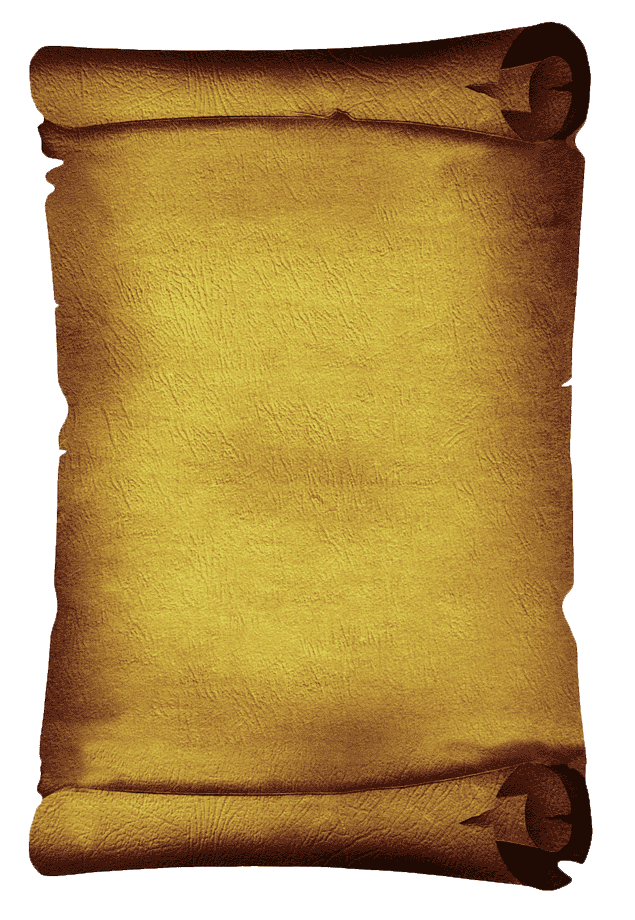
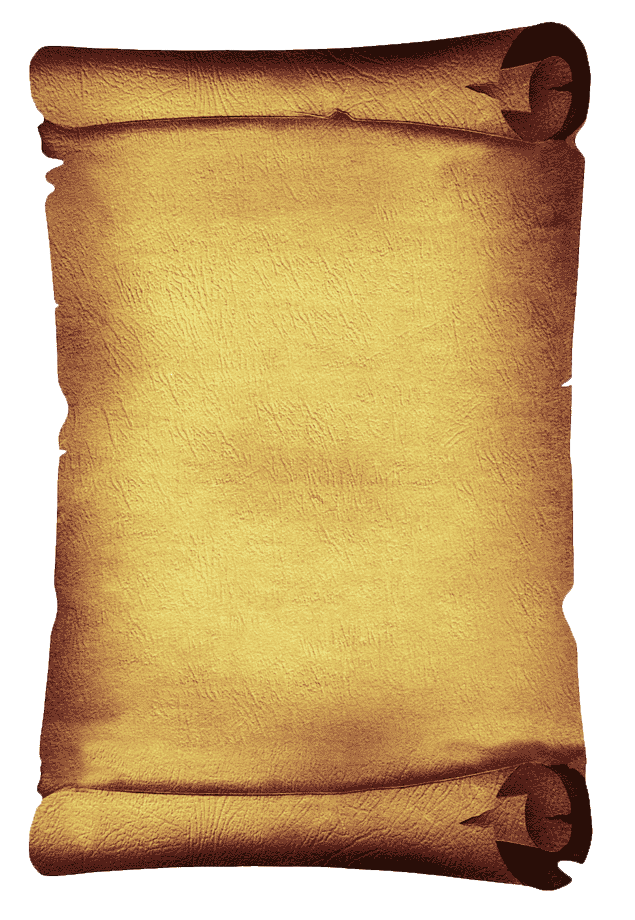
Actualizo menu. Cambio titulo y pergamino.

diff --git a/Warhammer/src/Menu.java b/Warhammer/src/Menu.java
@@ -86,11 +86,11 @@ public class Menu extends JFrame {
 		// IMAGEN DE TITULO
 
 		JLabel lblNewLabel = new JLabel("");
-		lblNewLabel.setBounds(615, 75, 643, 196);
+		lblNewLabel.setBounds(685, 191, 516, 150);
 		contentPane.add(lblNewLabel);
 
 		Image img = new ImageIcon(".\\images\\titulo.png").getImage();
-		ImageIcon img2 = new ImageIcon(img.getScaledInstance(630, 190, Image.SCALE_SMOOTH));
+		ImageIcon img2 = new ImageIcon(img.getScaledInstance(490, 182, Image.SCALE_SMOOTH));
 		lblNewLabel.setIcon(img2);
 
 		Image imgsalir = new ImageIcon(".\\images\\boton-salir.png").getImage();
@@ -100,18 +100,18 @@ public class Menu extends JFrame {
 
 		JLabel btn1 = new JLabel("");
 		btn1.setHorizontalAlignment(SwingConstants.CENTER);
-		btn1.setBounds(760, 495, 332, 64);
+		btn1.setBounds(769, 498, 332, 64);
 		contentPane.add(btn1);
 
 		JLabel btn2 = new JLabel("");
 		btn2.setHorizontalAlignment(SwingConstants.CENTER);
-		btn2.setBounds(760, 605, 332, 64);
+		btn2.setBounds(769, 608, 332, 64);
 		contentPane.add(btn2);
 
 		JLabel btn3 = new JLabel("");
 		btn3.setForeground(Color.BLACK);
 		btn3.setHorizontalAlignment(SwingConstants.CENTER);
-		btn3.setBounds(760, 384, 332, 64);
+		btn3.setBounds(769, 387, 332, 64);
 		contentPane.add(btn3);
 
 		// ASIGNAMOS IMAGEN A LOS BOTONES
@@ -177,10 +177,10 @@ public class Menu extends JFrame {
 		lblsalir.setIcon(imgtest2);
 
 		Image imgperga = new ImageIcon(".\\images\\pergamino-horizontal.png").getImage();
-		ImageIcon imgperga1 = new ImageIcon(imgperga.getScaledInstance(440, 613, Image.SCALE_SMOOTH));
+		ImageIcon imgperga1 = new ImageIcon(imgperga.getScaledInstance(430, 813, Image.SCALE_SMOOTH));
 
 		JLabel lblperga = new JLabel("");
-		lblperga.setBounds(707, 128, 516, 813);
+		lblperga.setBounds(720, 63, 428, 806);
 		contentPane.add(lblperga);
 		lblperga.setIcon(imgperga1);
 
